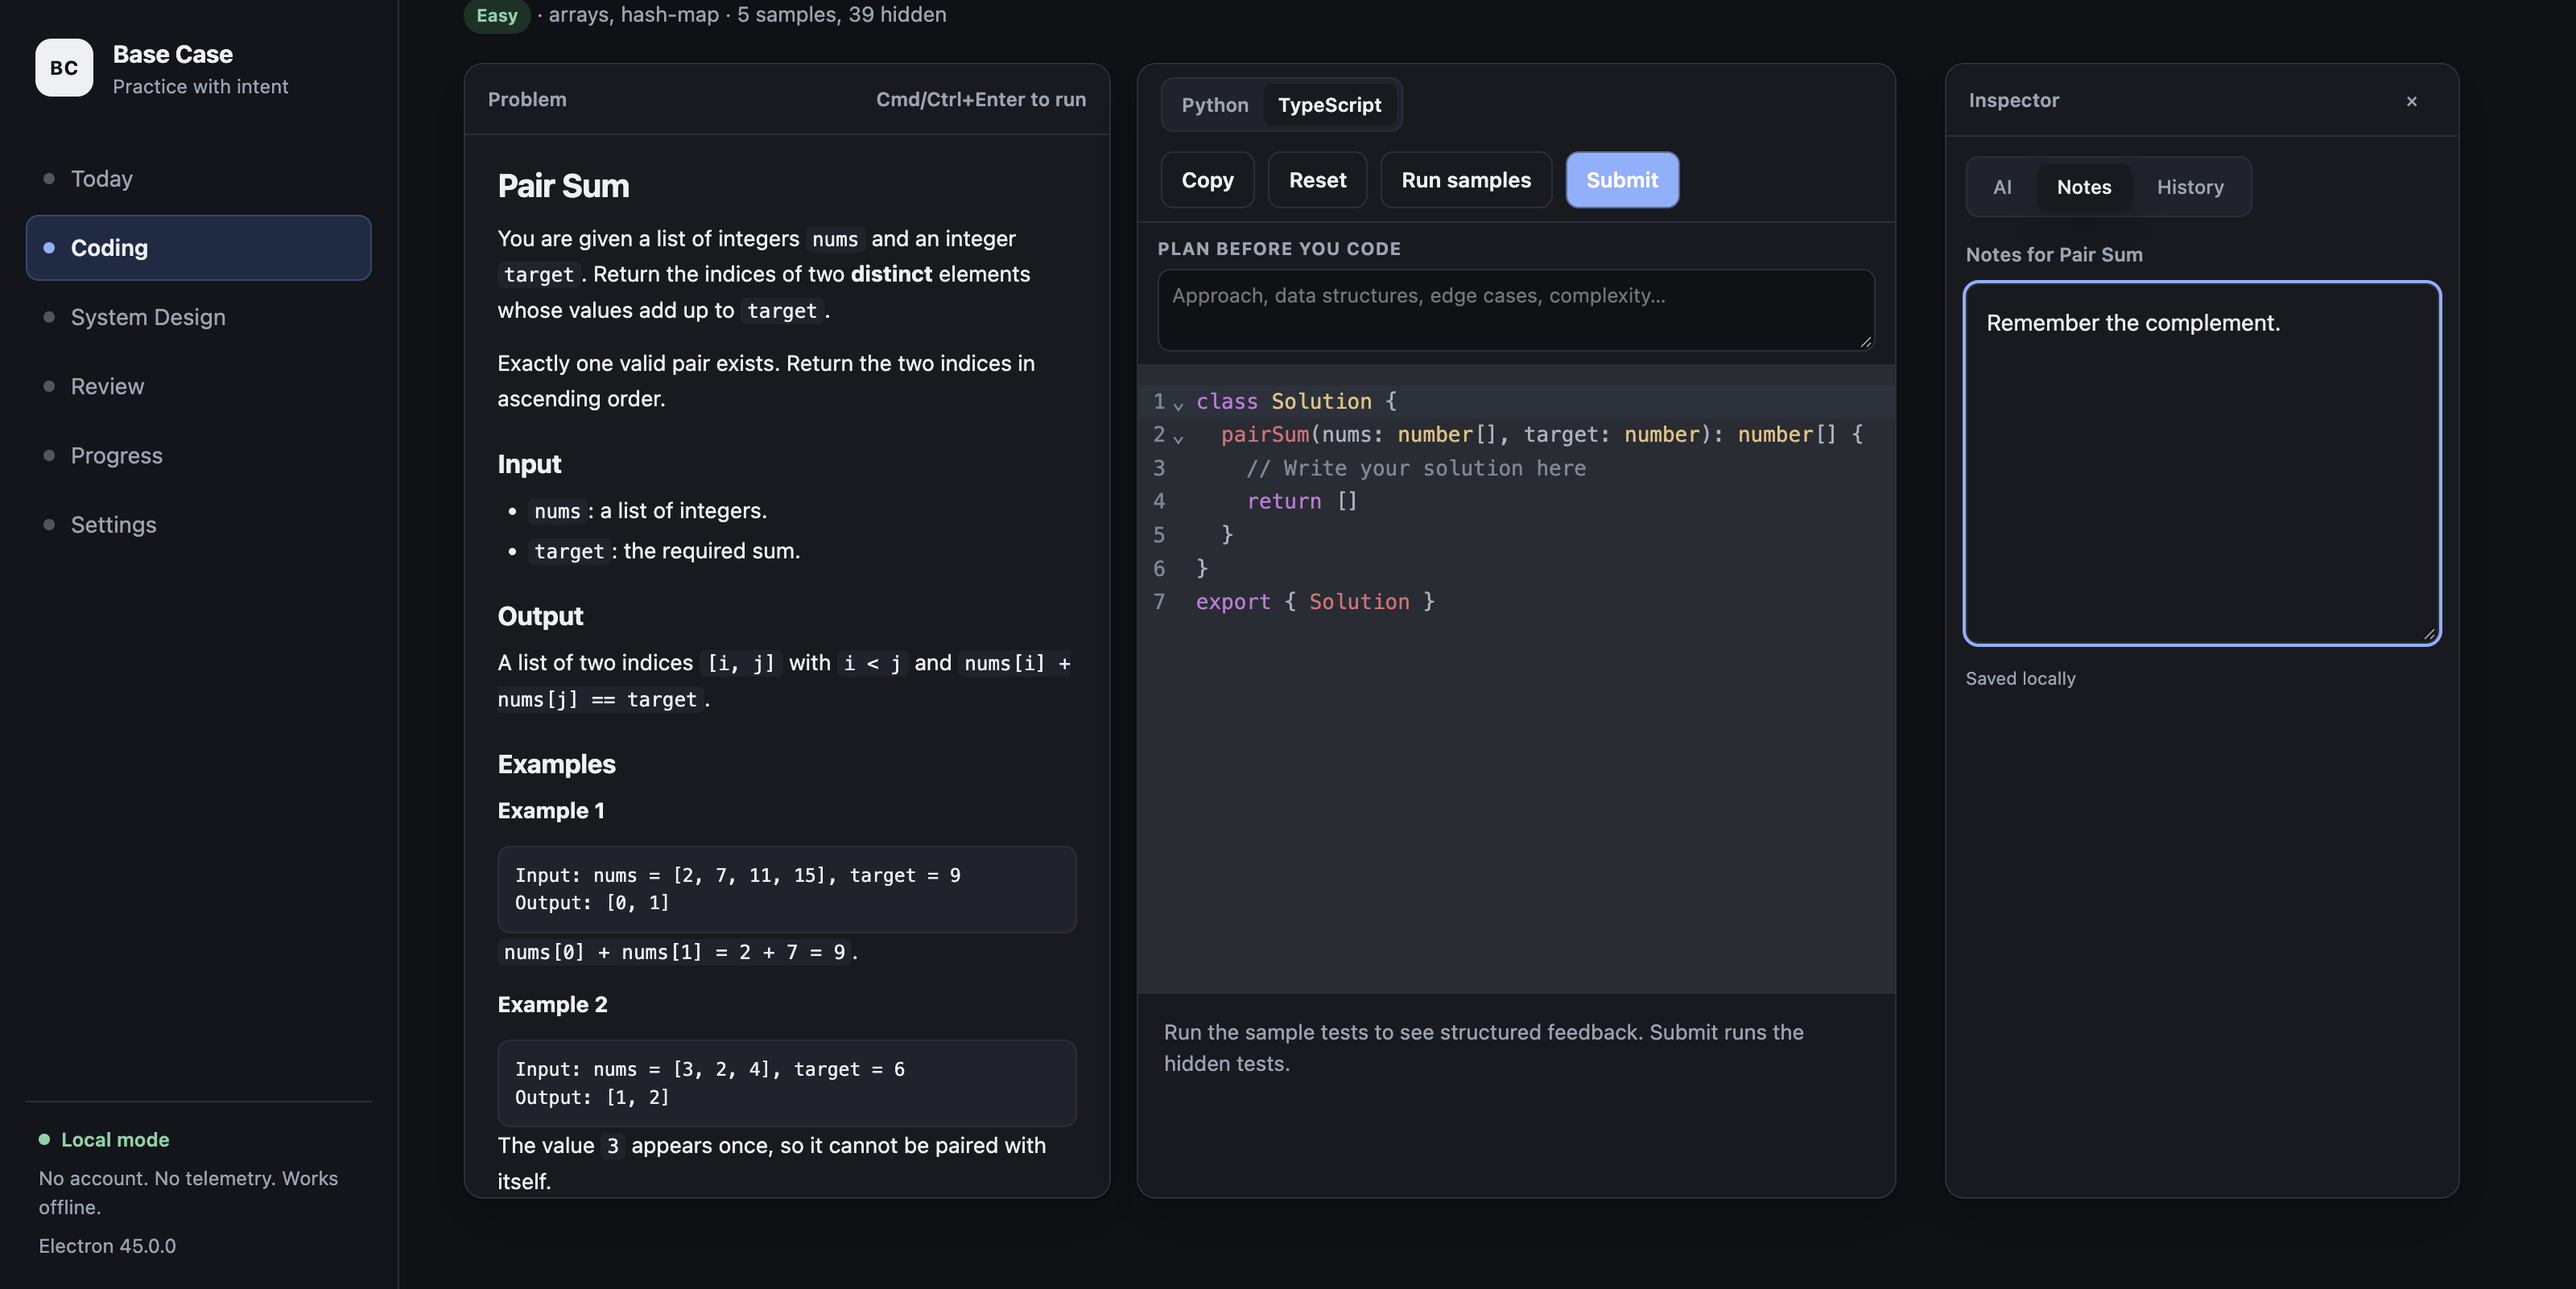
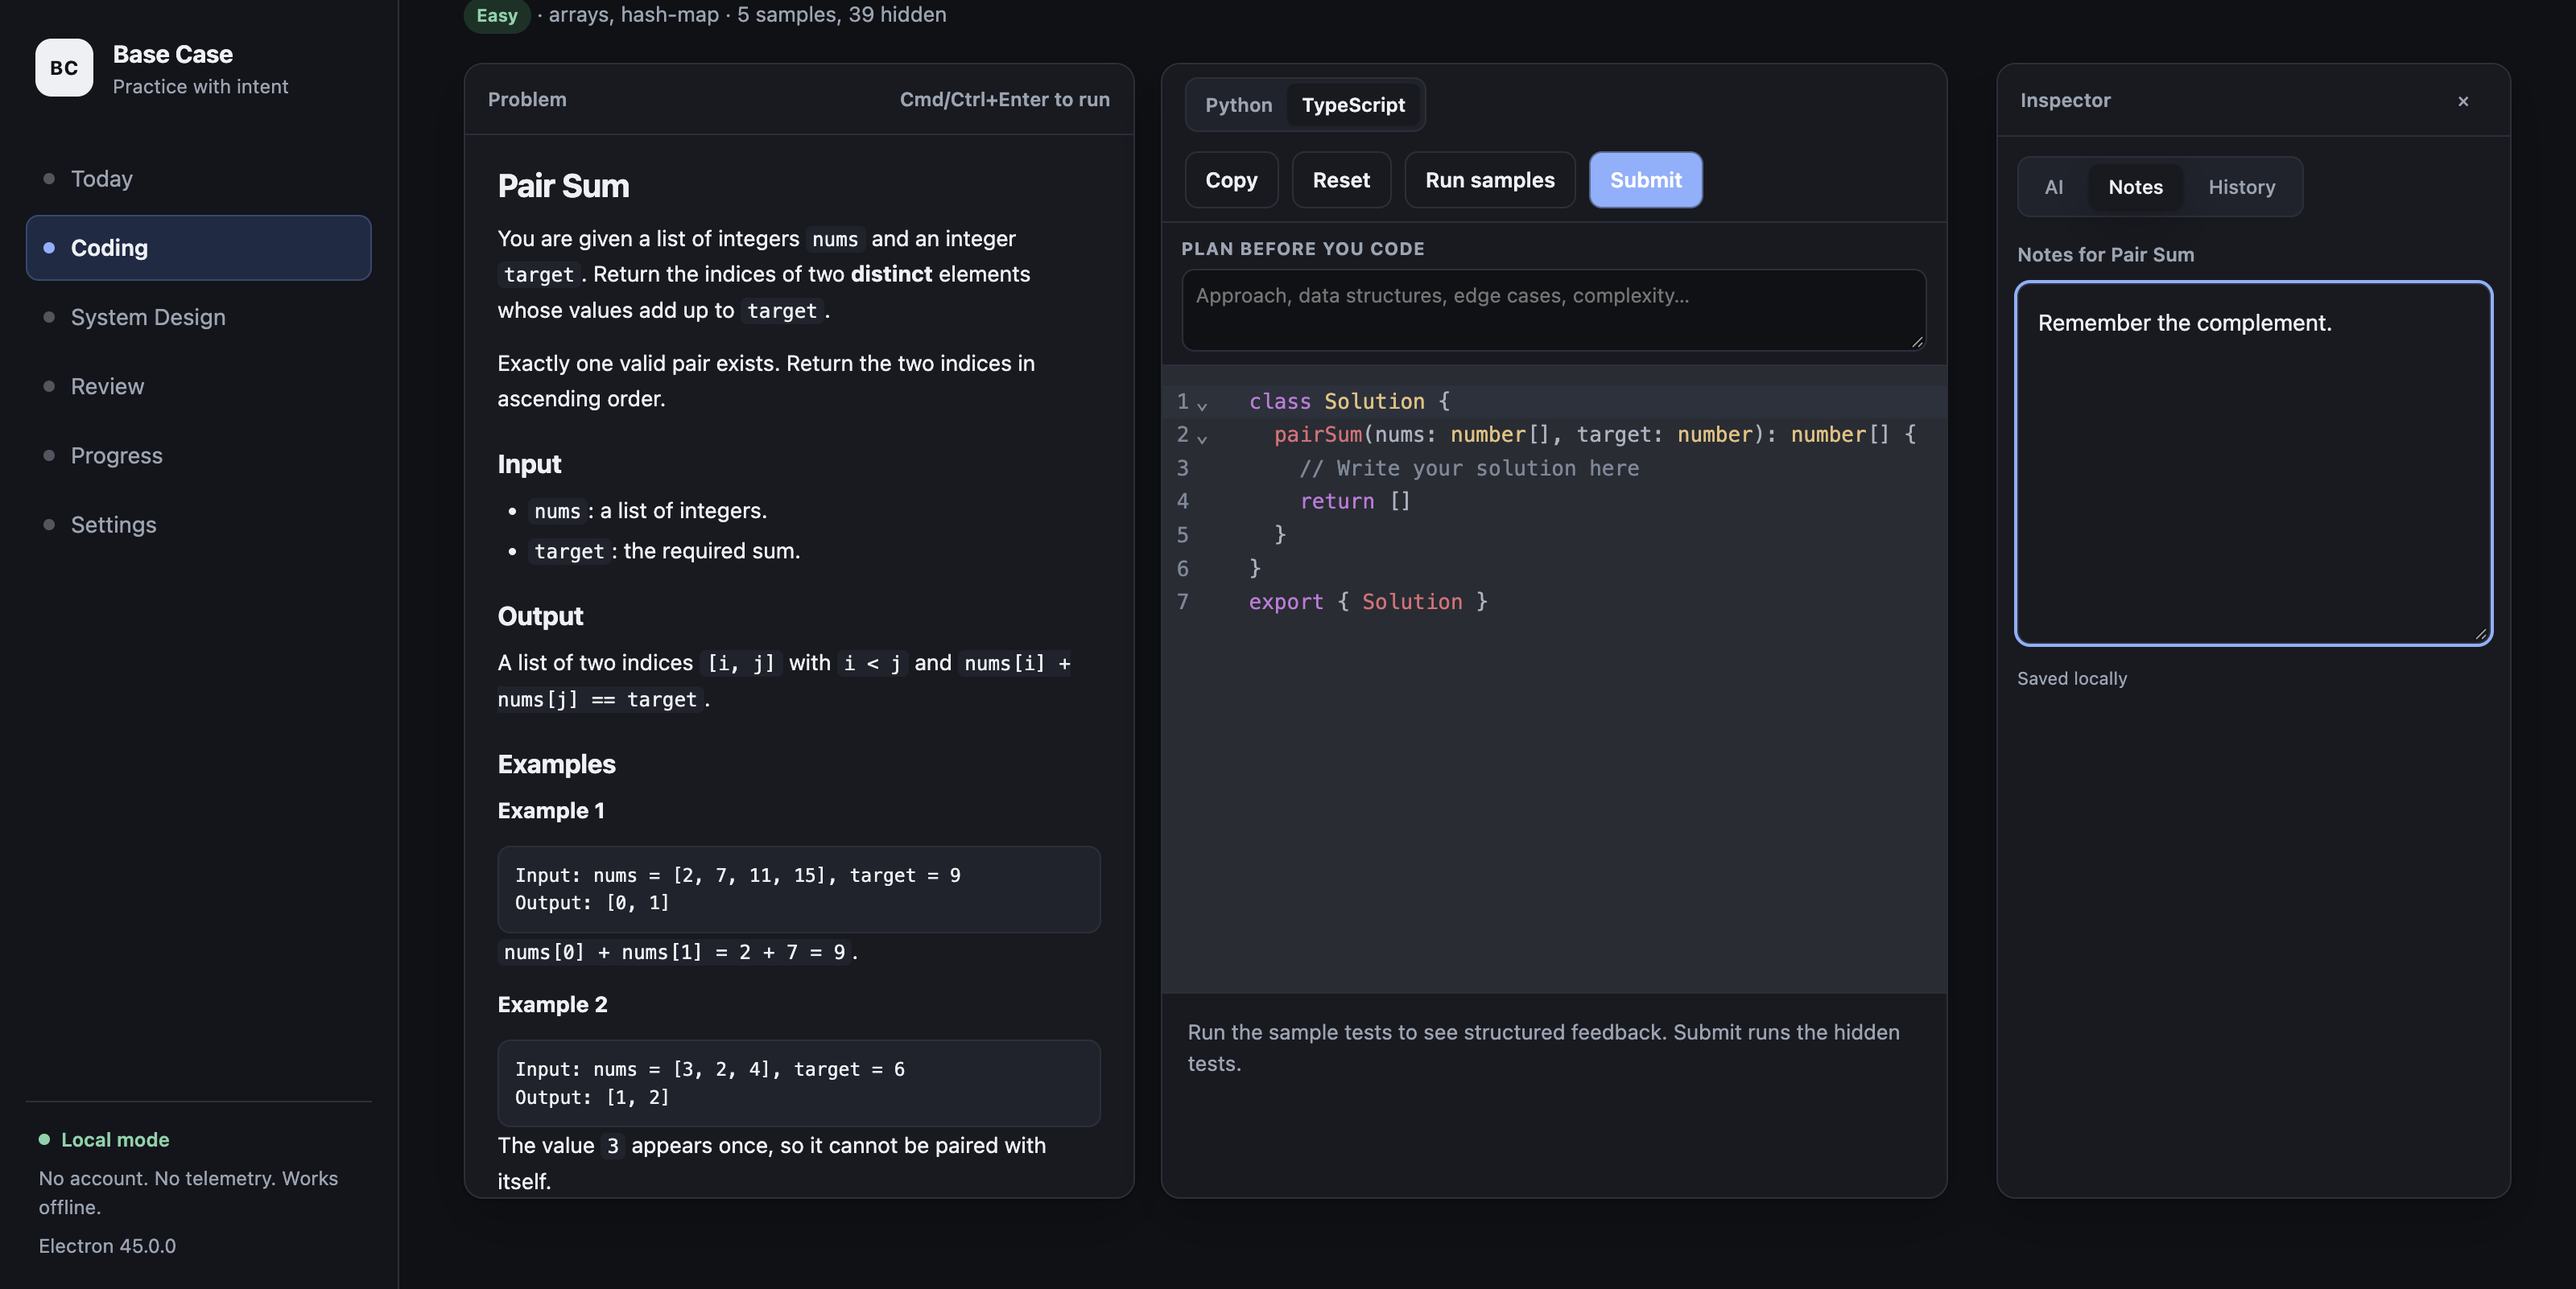
fix: use full width and keep signed macOS bundles valid

diff --git a/apps/desktop/e2e/app.spec.ts b/apps/desktop/e2e/app.spec.ts
@@ -790,6 +790,55 @@ test('autocompletes TypeScript members, indents with Tab, and flags syntax error
   }
 })
 
+test('uses the available width on large windows', async () => {
+  const userDataDirectory = mkdtempSync(join(tmpdir(), 'base-case-playwright-layout-'))
+  let launched: LaunchedApp | null = null
+
+  try {
+    launched = await launchApp(userDataDirectory)
+    const page = launched.page
+
+    await completeOnboarding(page, 'python')
+    await launched.app.evaluate(({ BrowserWindow }) => {
+      BrowserWindow.getAllWindows()[0]?.setSize(1600, 1000)
+    })
+    await page.waitForTimeout(300)
+
+    await page
+      .getByRole('navigation', { name: 'Primary' })
+      .getByRole('button', { name: 'Coding' })
+      .click()
+    await expect(page.getByRole('heading', { name: 'Problem library' })).toBeVisible()
+
+    const layout = await page.evaluate(() => {
+      const content = document.querySelector('.content') as HTMLElement | null
+      return content
+        ? {
+            maxWidth: getComputedStyle(content).maxWidth,
+            width: content.getBoundingClientRect().width,
+          }
+        : null
+    })
+    expect(layout?.maxWidth).toBe('none')
+    expect(layout?.width ?? 0).toBeGreaterThan(1200)
+
+    await page
+      .getByRole('navigation', { name: 'Primary' })
+      .getByRole('button', { name: 'System Design' })
+      .click()
+    await page.getByTestId('design-scenario').first().click()
+    const canvas = page.locator('.excalidraw__canvas.interactive').first()
+    await expect(canvas).toBeVisible()
+    const canvasHeight = await page
+      .locator('.design-canvas')
+      .evaluate((element) => element.getBoundingClientRect().height)
+    expect(canvasHeight).toBeGreaterThan(550)
+  } finally {
+    await launched?.app.close().catch(() => undefined)
+    rmSync(userDataDirectory, { recursive: true, force: true, maxRetries: 3, retryDelay: 200 })
+  }
+})
+
 test('has no serious accessibility violations in the main views', async () => {
   const userDataDirectory = mkdtempSync(join(tmpdir(), 'base-case-playwright-a11y-'))
   let launched: LaunchedApp | null = null

diff --git a/apps/desktop/src/renderer/src/workspace.css b/apps/desktop/src/renderer/src/workspace.css
@@ -919,7 +919,8 @@ pre {
 }
 
 .content {
-  width: min(1320px, 100%);
+  width: 100%;
+  max-width: none;
 }
 
 /* Phase 4 — plan field, review queue, and progress */
@@ -1219,12 +1220,12 @@ pre {
 
 .design-side {
   min-height: 0;
-  max-height: min(72vh, 760px);
+  max-height: clamp(560px, calc(100vh - 220px), 1000px);
 }
 
 .design-canvas {
-  height: min(72vh, 760px);
-  min-height: 520px;
+  height: clamp(560px, calc(100vh - 220px), 1000px);
+  min-height: 560px;
 }
 
 .design-notes {

diff --git a/services/judge/internal/judge/runtimes.go b/services/judge/internal/judge/runtimes.go
@@ -196,7 +196,7 @@ func (r *Runner) outputLimit() int {
 // env override, a bundled pack, or the host system.
 func (r *Runner) Doctor(ctx context.Context) map[string]RuntimeInfo {
 	return map[string]RuntimeInfo{
-		"python": r.runtimeInfo(ctx, "python", r.PythonPath, r.PythonSource, "--version"),
+		"python": r.runtimeInfo(ctx, "python", r.PythonPath, r.PythonSource, "-B", "--version"),
 		"node":   r.runtimeInfo(ctx, "node", r.NodePath, r.NodeSource, "--version"),
 	}
 }

diff --git a/services/judge/internal/judge/compile.go b/services/judge/internal/judge/compile.go
@@ -51,7 +51,7 @@ func compilePython(
 	compileContext, cancel := context.WithTimeout(ctx, compileTimeout)
 	defer cancel()
 
-	command := exec.CommandContext(compileContext, runtimePath, "-I", "-m", "py_compile", "solution.py")
+	command := exec.CommandContext(compileContext, runtimePath, "-I", "-B", "-m", "py_compile", "solution.py")
 	command.Dir = workspace
 	command.Env = sanitizedEnv(workspace, filepath.Dir(runtimePath))
 

diff --git a/services/judge/internal/judge/runner.go b/services/judge/internal/judge/runner.go
@@ -563,7 +563,7 @@ func (r *Runner) runTest(
 
 func commandFor(language, runtimePath string, request RunRequest) *exec.Cmd {
 	if language == "python" {
-		return exec.Command(runtimePath, "-I", "harness.py")
+		return exec.Command(runtimePath, "-I", "-B", "harness.py")
 	}
 
 	args := []string{

diff --git a/docs/install.md b/docs/install.md
@@ -14,26 +14,50 @@ clean machine does not need either language installed.
 
 ## macOS
 
-1. Download and open the `.dmg`.
-2. Drag **Base Case** to `Applications`.
-3. The first launch from Finder will be blocked. Open **System Settings →
-   Privacy & Security**, find the blocked-app notice, and choose **Open
-   Anyway**. Alternatively, Control-click the app in Finder, choose **Open**,
-   then confirm.
-4. If macOS says the app is damaged, verify the download checksum first. If it
-   still fails, run:
+Release builds are produced for both Apple Silicon (`arm64`) and Intel (`x64`).
+The judge and bundled runtimes are built for the same architecture as the app.
+
+- **Apple Silicon (M1/M2/M3/M4):** use the `arm64` DMG.
+- **Intel Macs:** use the `x64` DMG.
+- A Rosetta installation prompt on an Apple Silicon Mac means you downloaded the
+  `x64` build. Close it and download the `arm64` build instead. If you
+  deliberately need to run the Intel build, install Rosetta with
+  `softwareupdate --install-rosetta --agree-to-license`.
+
+### From a GitHub Actions artifact
+
+The `base-case-macOS` artifact is a ZIP containing both architectures, their
+ZIPs, and `SHA256SUMS.txt`.
+
+1. Download and extract the artifact ZIP.
+2. Verify the DMG you intend to use:
 
    ```sh
-   xattr -dr com.apple.quarantine "/Applications/Base Case.app"
+   shasum -a 256 "Base-Case-0.1.0-alpha-arm64.dmg"
    ```
 
-   Only do this for a build you trust. The release includes a
-   `SHA256SUMS.txt` file with the SHA-256 checksums.
+   Compare the result with the matching line in `SHA256SUMS.txt`.
 
-Release builds are produced for both Apple Silicon (`arm64`) and Intel (`x64`).
-Download the DMG that matches the machine. The judge and bundled runtimes are
-built for the same architecture as the app; do not mix an x64 app with arm64
-runtime files.
+3. Open the DMG and drag **Base Case** to `Applications`.
+4. The first launch is blocked because the build is not notarized. Open
+   **System Settings → Privacy & Security**, find the blocked-app notice, and
+   choose **Open Anyway**. Alternatively, Control-click the app and choose
+   **Open**.
+
+### “Base Case is damaged and can’t be opened”
+
+This usually means macOS quarantined the downloaded app. The build is ad-hoc
+signed but not notarized. Only do this for a build you trust:
+
+```sh
+xattr -dr com.apple.quarantine "/Applications/Base Case.app"
+open "/Applications/Base Case.app"
+```
+
+If the warning persists, verify the SHA-256 checksum against
+`SHA256SUMS.txt` and download the artifact again. Do not disable Gatekeeper
+globally. A “damaged” message from artifacts built before the ad-hoc signing
+fix is expected; newer builds have a valid bundle signature.
 
 ## Windows
 

diff --git a/PROGRESS.md b/PROGRESS.md
@@ -56,6 +56,32 @@ See `docs/project/open-blockers.md` for the canonical, owner-ready list. Current
 
 ## Work log (newest first)
 
+### 2026-10-26 — Post-alpha fix — Large-screen layout and macOS bundle signing
+
+- Status: External-monitor layout and installer launch failures fixed
+- Done:
+  - Removed the 1320 px content cap so coding, design, review, progress, and settings use the full workspace on large/external displays.
+  - Made the design canvas and side panel grow with the viewport instead of stopping at a fixed height.
+  - Added an `afterPack` ad-hoc codesign hook for macOS bundles and a CI signature-verification step.
+  - Fixed the runtime cause of signature invalidation: Python isolated mode (`-I`) ignores `PYTHONDONTWRITEBYTECODE`, so bytecode was being written into the app bundle. All Python invocations now use `-B`; doctor, compile, and harness runs no longer modify the signed bundle.
+  - Stripped Python bytecode from fetched runtime packs and verified that a packaged app still passes `codesign --verify --deep --strict` after a full judge run.
+  - Documented Apple Silicon vs Intel artifacts, GitHub Actions artifact layout, Rosetta, checksum verification, and the quarantine fix in `docs/install.md`.
+- Tests run:
+  - `go test -C services/judge ./...` — passed.
+  - `pnpm lint`, `pnpm typecheck` — passed.
+  - `pnpm test` — 125 tests.
+  - Playwright — 11 passed including a wide-window layout regression.
+  - `pnpm smoke:e2e` — passed.
+  - `codesign --verify --deep --strict` on both app bundles after packaging and after running the packaged app — passed.
+  - Rebuilt installers and refreshed checksums.
+- Files/PRs:
+  - `workspace.css`, `apps/desktop/scripts/after-pack.cjs`, `electron-builder.yml`, `.github/workflows/build.yml`, judge compile/runner/runtimes, `scripts/fetch-runtimes.mjs`, `docs/install.md`.
+- Next:
+  - Re-run the `Build installers` workflow to publish signed/ad-hoc candidate artifacts; continue B1/B2/B10/B11.
+- Notes/decisions:
+  - Ad-hoc signing makes the bundle internally valid but does not notarize it. Users still clear quarantine once; it should no longer report “damaged”.
+  - x64 builds still prompt for Rosetta on Apple Silicon; the arm64 artifact is the correct default.
+
 ### 2026-10-26 — Post-alpha fix — Non-JSON AI responses and development logging
 
 - Status: AI response parsing and dev-process debugging improved

diff --git a/docs/project/release-candidate.md b/docs/project/release-candidate.md
@@ -20,12 +20,12 @@ CSC_IDENTITY_AUTO_DISCOVERY=false pnpm package:mac
 pnpm release:checksums
 ```
 
-| Artifact                          | Size  | SHA-256                                                            |
-| --------------------------------- | ----- | ------------------------------------------------------------------ |
[4 lines of base64/hex data omitted]
+| Artifact                          | Size    | SHA-256                                                            |
+| --------------------------------- | ------- | ------------------------------------------------------------------ |
[4 lines of base64/hex data omitted]
 
 The app is unsigned. Gatekeeper and SmartScreen will warn; follow
 `docs/install.md`. Verify the checksum before running.
@@ -44,8 +44,9 @@ The app is unsigned. Gatekeeper and SmartScreen will warn; follow
 
 ## Verification completed
 
-- Packaged app: 2766 ms cold start, 48 ms problem open, 410 ms design canvas,
-  316 ms judge run, 294.8 MB idle / 377.7 MB working memory.
+- Packaged app: 2619 ms cold start, 50 ms problem open, 409 ms design canvas,
+  451 ms judge run, 289.8 MB idle / 379.1 MB working memory.
+- Both app bundles pass `codesign --verify --deep --strict`; the judge prevents Python bytecode writes inside the signed bundle.
 - Embedded binaries confirmed by architecture with `file`.
 - 50/50 reference solutions accepted through the real judge.
 - 117 unit tests, 4 schema tests, Go suites, Electron smoke, and 7 Playwright

diff --git a/docs/project/performance.md b/docs/project/performance.md
@@ -20,16 +20,16 @@ samples the process tree. It never contacts the network.
 
 | Measurement                     | Budget | Result   | Status |
 | ------------------------------- | ------ | -------- | ------ |
-| Cold start to first shell       | < 4000 | 2766 ms  | Pass   |
+| Cold start to first shell       | < 4000 | 2619 ms  | Pass   |
 | Coding library ready            | < 750  | 325 ms   | Pass   |
-| Problem open to editor ready    | < 250  | 48 ms    | Pass   |
-| Design scenario to canvas ready | < 1500 | 410 ms   | Pass   |
-| Judge sample run (5 tests)      | < 2000 | 316 ms   | Pass   |
-| Idle memory, whole process tree | < 600  | 294.8 MB | Pass   |
-| Working memory after canvas     | < 900  | 377.7 MB | Pass   |
-| macOS DMG                       | < 350  | 253.0 MB | Pass   |
-| macOS ZIP                       | < 350  | 253.8 MB | Pass   |
-| App bundle on disk              | —      | 689.0 MB | —      |
+| Problem open to editor ready    | < 250  | 50 ms    | Pass   |
+| Design scenario to canvas ready | < 1500 | 409 ms   | Pass   |
+| Judge sample run (5 tests)      | < 2000 | 451 ms   | Pass   |
+| Idle memory, whole process tree | < 600  | 289.8 MB | Pass   |
+| Working memory after canvas     | < 900  | 379.1 MB | Pass   |
+| macOS DMG                       | < 350  | 251.9 MB | Pass   |
+| macOS ZIP                       | < 350  | 252.7 MB | Pass   |
+| App bundle on disk              | —      | 690.4 MB | —      |
 
 The idle figure includes Electron helpers and the spawned judge sidecar. The
 working figure is sampled four seconds after the design canvas finishes
